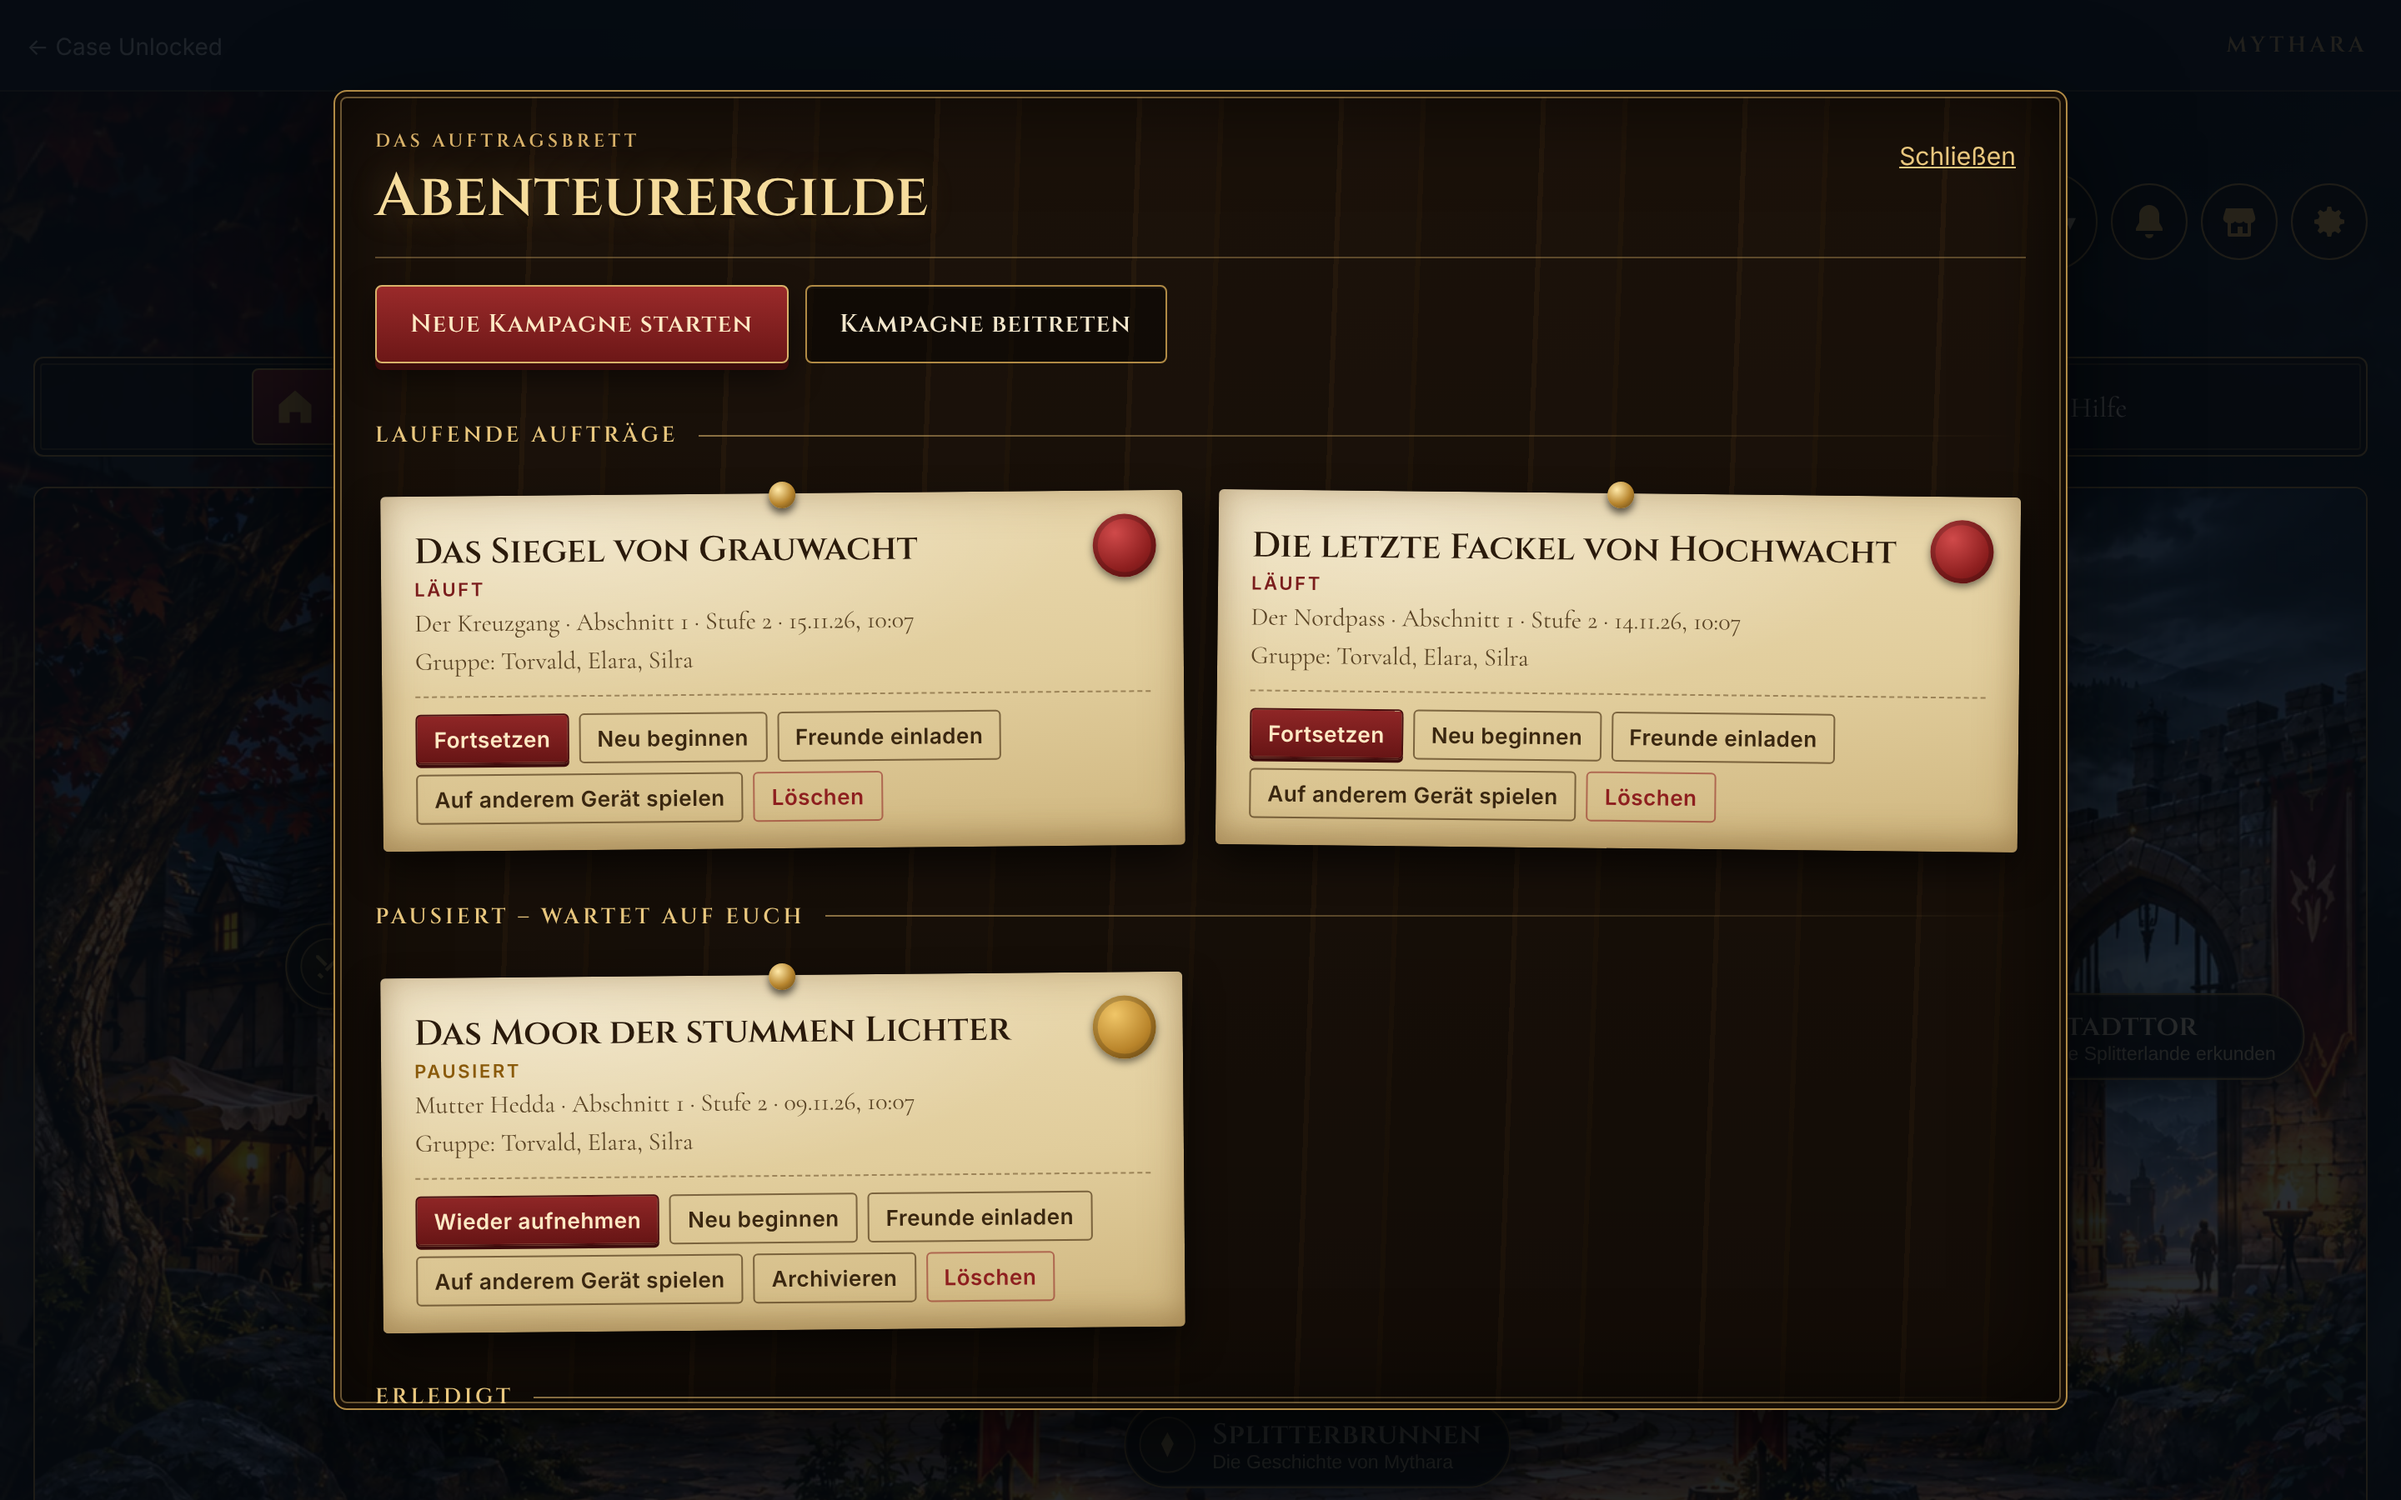
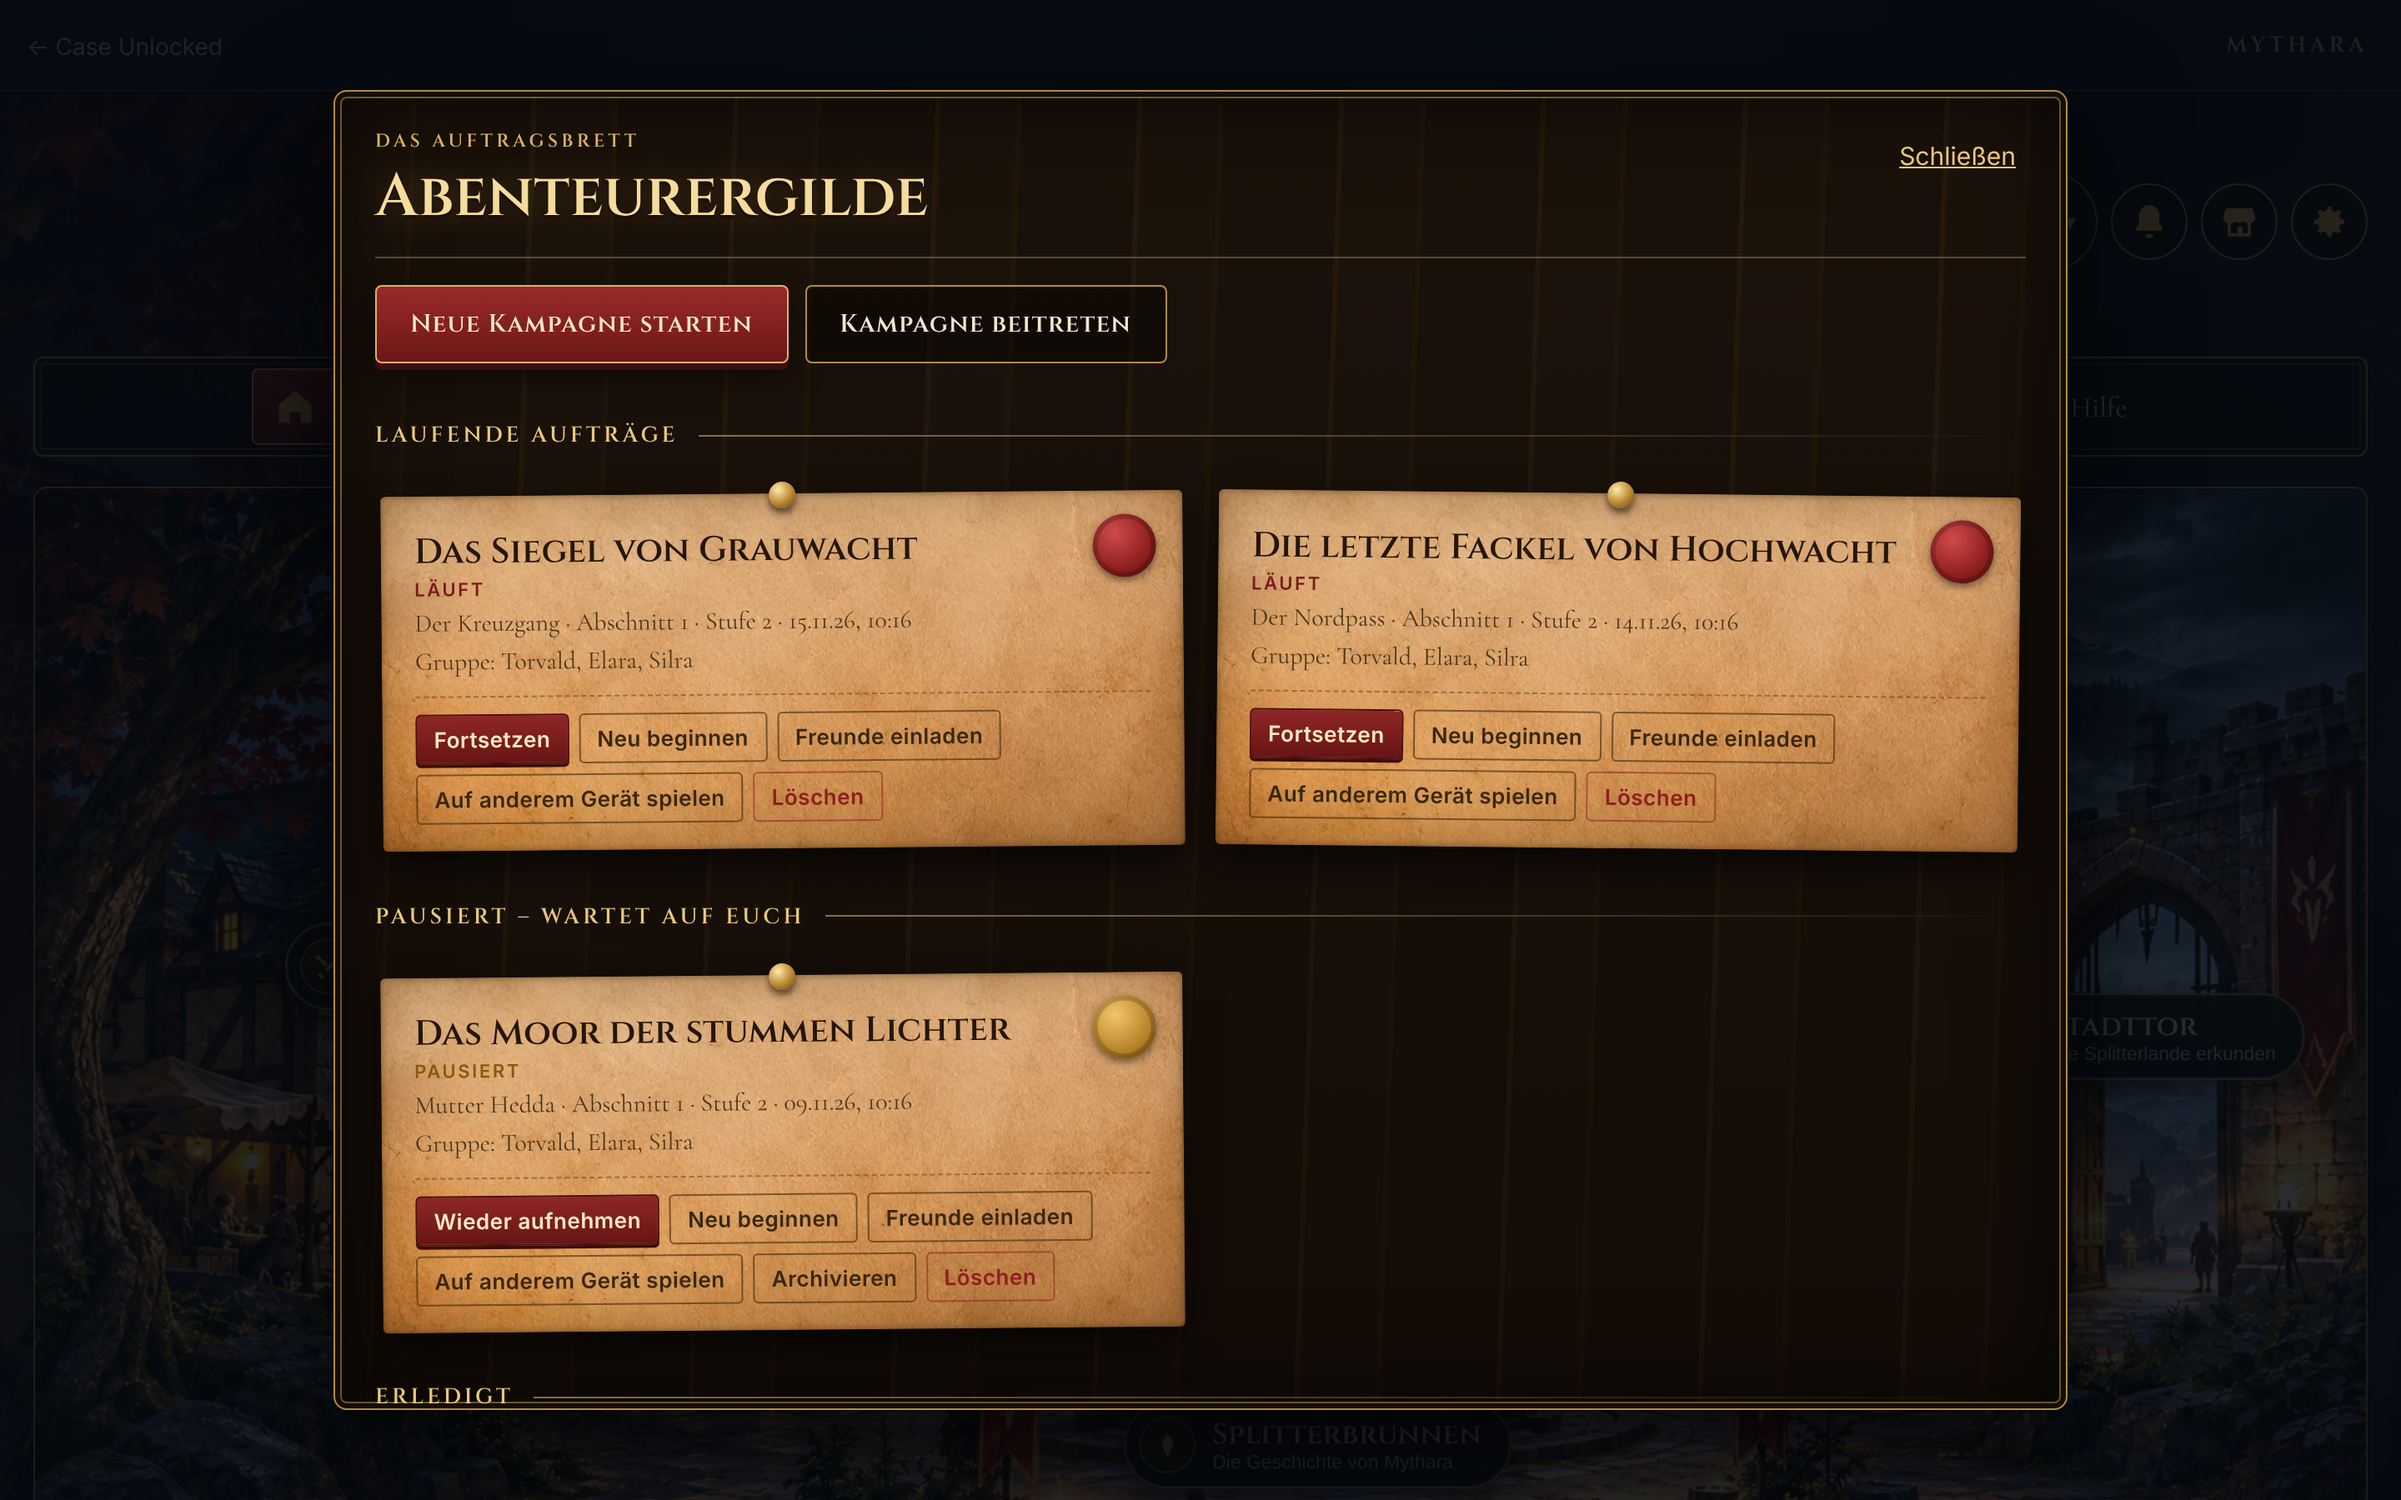
Zwischenstand: Aushänge der Gilde mit Pergamentstruktur aus dem Auftragsblatt (noch nicht auf main)
Claude-Session: https://claude.ai/code/session_01TxcDgE19T8YxoXVtM1YLbF

Changed region(s): [[0.1562, 0.3111, 0.8438, 0.5911], [0.1562, 0.6222, 0.5, 0.9022]]

diff --git a/abenteuer/css/abenteuer.css b/abenteuer/css/abenteuer.css
@@ -1836,3 +1836,6 @@ small.meister, .fkarte small.meister, .gk-info small.meister { color: #ffd75e; }
 .gilde .note { color: #d9ccb0; } .gilde .link { color: #e9c77e; }
 .gilde .k-lokal { background: rgba(0,0,0,.35); border-color: #d9b26a; color: #f3e7cc; }
 @media (max-width: 560px) { .karte-box.gilde { padding: 16px 14px 20px; } .gilde .k-eintrag, .gilde .k-eintrag:nth-child(even) { transform: none; } }
+/* Aushänge der Gilde mit echter Pergamentstruktur (Ausschnitt aus dem Auftragsblatt) */
+.gilde .k-eintrag { background: linear-gradient(175deg, rgba(255,244,214,.34), rgba(120,78,28,.10) 60%, rgba(90,56,18,.26)), url("../img/dorf/pergament.webp") center / cover; box-shadow: 0 10px 22px rgba(0,0,0,.6), inset 0 0 34px rgba(96,58,18,.5), inset 0 0 4px rgba(60,36,10,.6); }
+.gilde .k-text b { color: #24160a; } .gilde .k-text small { color: #4a3619; }

diff --git a/abenteuer/handy.html b/abenteuer/handy.html
@@ -12,7 +12,7 @@
   <meta name="apple-mobile-web-app-capable" content="yes">
   <meta name="apple-mobile-web-app-status-bar-style" content="black-translucent">
   <meta name="apple-mobile-web-app-title" content="Mythara">
-  <link rel="stylesheet" href="css/abenteuer.css?v=69">
+  <link rel="stylesheet" href="css/abenteuer.css?v=70">
   <link rel="stylesheet" href="css/sammlung.css?v=5">
 </head>
 <body class="handy">

diff --git a/abenteuer/index.html b/abenteuer/index.html
@@ -13,7 +13,7 @@
   <meta name="apple-mobile-web-app-status-bar-style" content="black-translucent">
   <meta name="apple-mobile-web-app-title" content="Mythara">
   <link rel="manifest" href="manifest.webmanifest">
-  <link rel="stylesheet" href="css/abenteuer.css?v=69">
+  <link rel="stylesheet" href="css/abenteuer.css?v=70">
   <link rel="stylesheet" href="css/sammlung.css?v=5">
 </head>
 <body>
